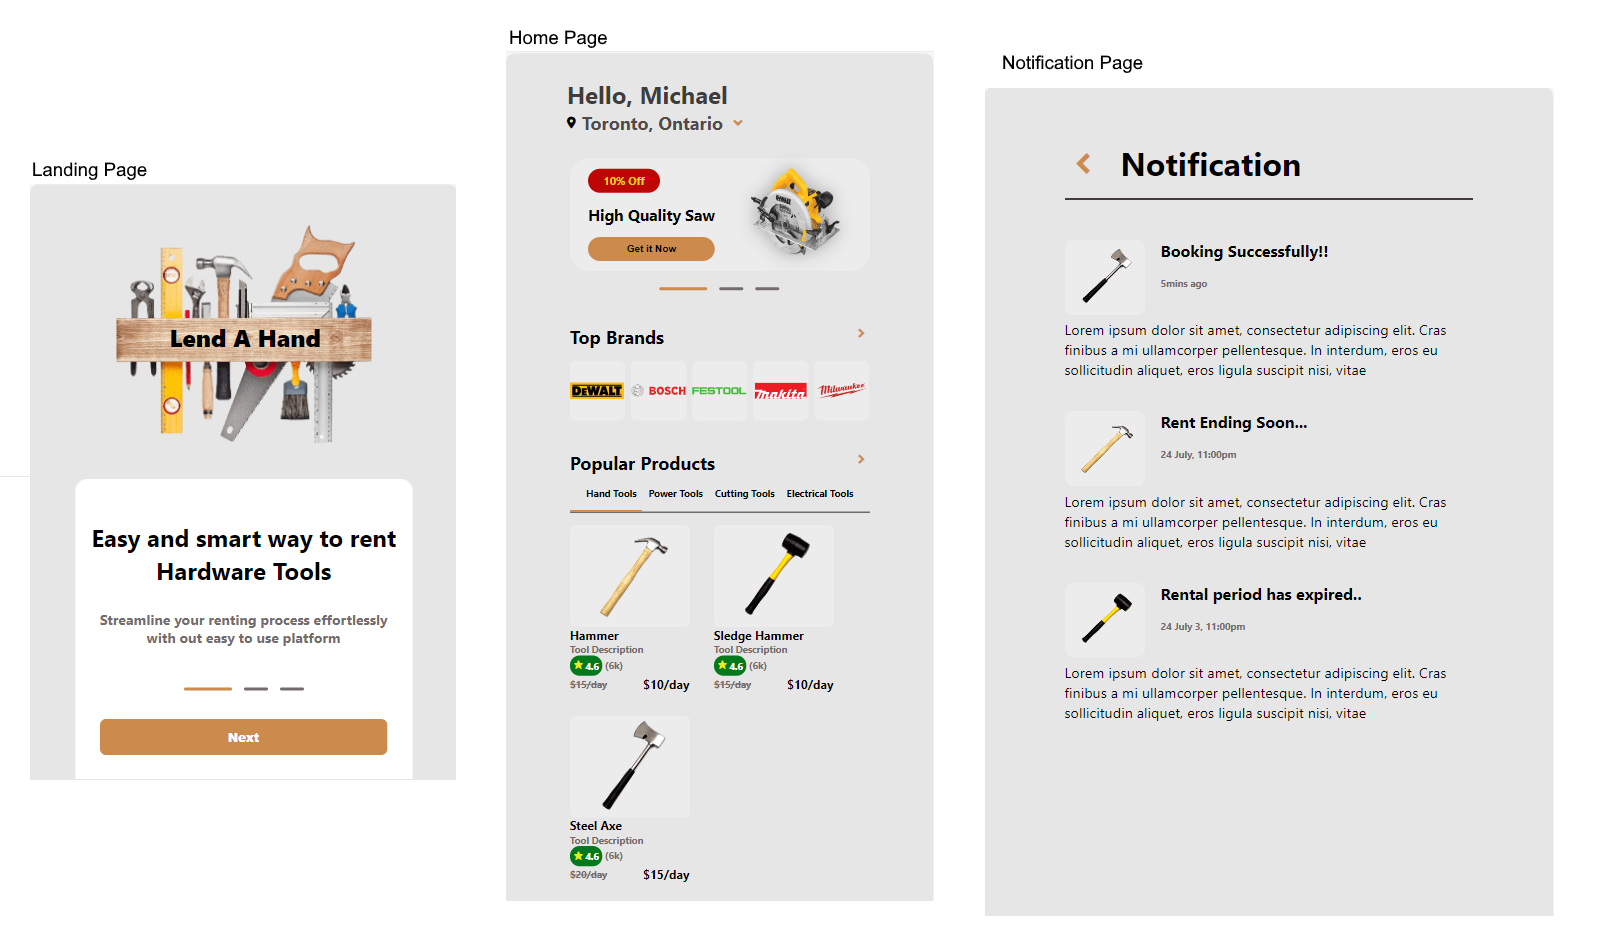
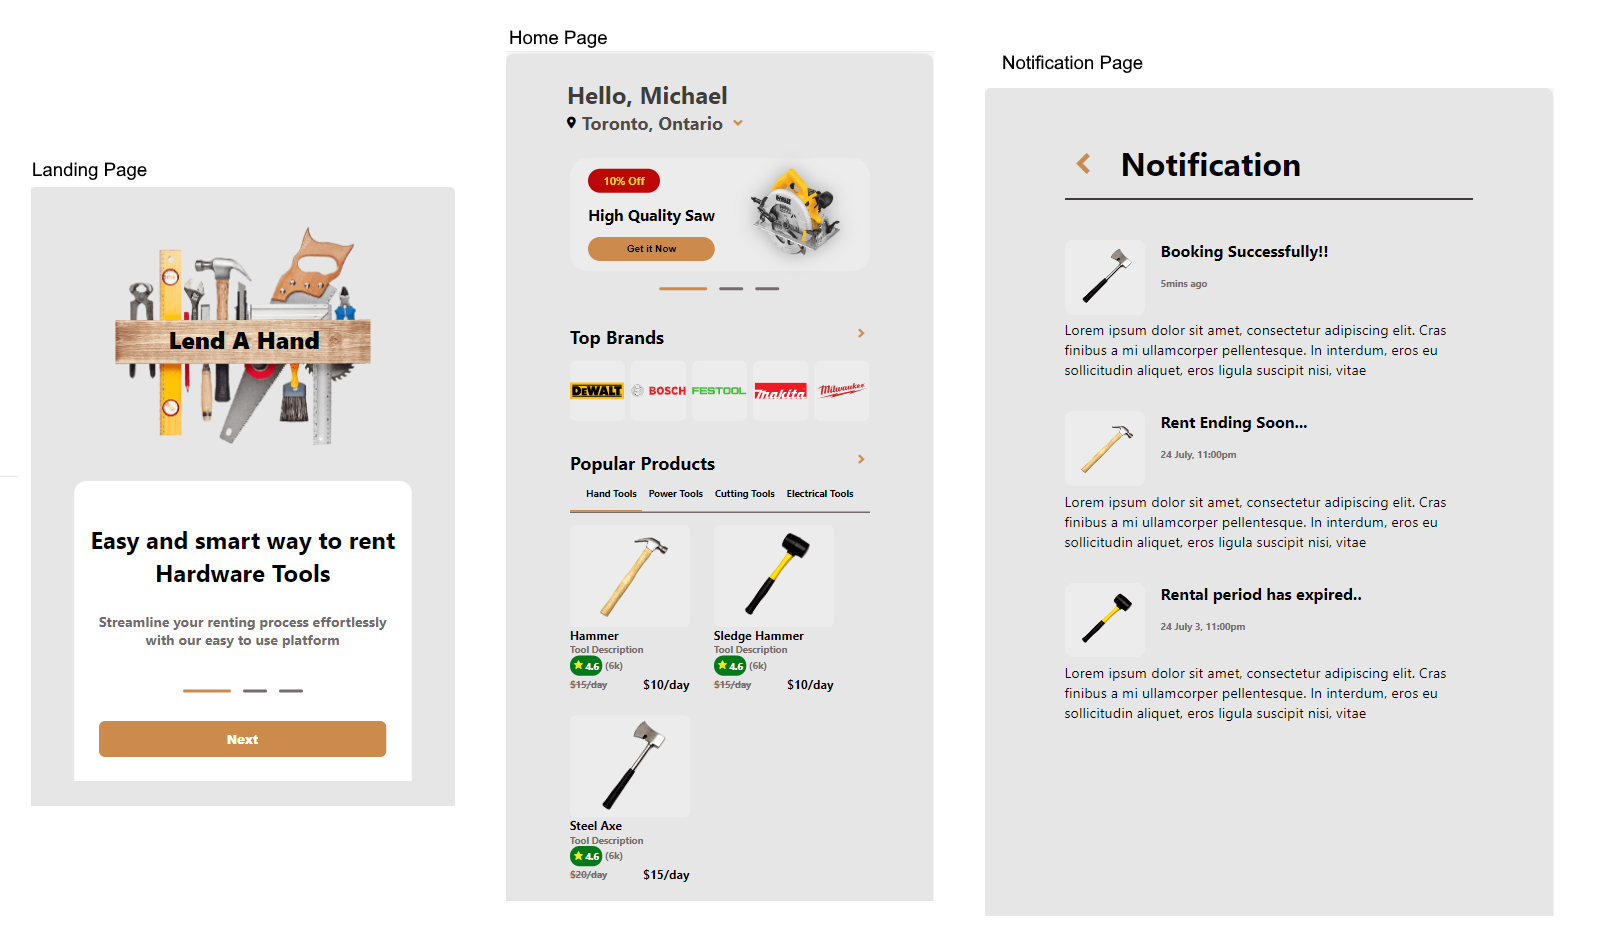
fixed a typo

diff --git a/index.html b/index.html
@@ -4,7 +4,7 @@
 <head>
     <meta charset="UTF-8">
     <meta name="viewport" content="width=device-width, initial-scale=1.0">
-    <title>Document</title>
+    <title>Rental Application Design</title>
 
     <link rel="stylesheet" href="styles.css">
     <link rel="stylesheet" href="https://cdn.jsdelivr.net/npm/boxicons@latest/css/boxicons.min.css">
@@ -18,7 +18,7 @@
 
         <div class="land-desc">
             <h1>Easy and smart way to rent Hardware Tools</h1>
-            <h3>Streamline your renting process effortlessly with out easy to use platform</h3>
+            <h3>Streamline your renting process effortlessly with our easy to use platform</h3>
             <div class="slider-indicator">
                 <div class="first"></div>
                 <div class="second"></div>
